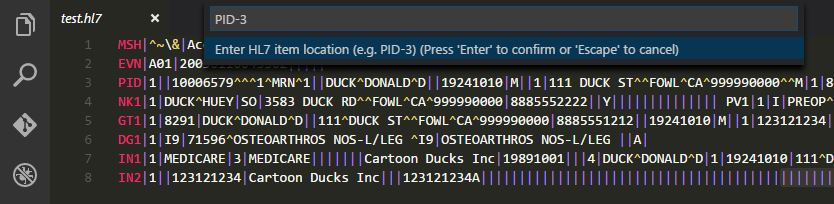
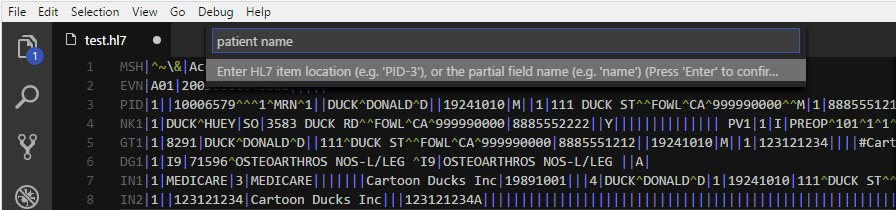
v1.3.6 release

diff --git a/CHANGELOG.md b/CHANGELOG.md
@@ -33,10 +33,13 @@ All notable changes to the "hl7tools" extension will be documented in this file.
 * Bugfix: Fixed duplication of MSH segment when splitting HL7 batch files.
 ## 1.3.2 - 2017-06-23
 * Added filename to output window name for 'Display Segment Fields' - less confusion when comparing segments from more than one file. 
-## 1.3.3
+## 1.3.3 - 2017-06-26
 * When using the 'Mask Identifiers' command, the masked message is now opened as a new document in the editor window, instead of being displayed in the output window.  
-## 1.3.4
+## 1.3.4 - 2017-06-28
 * Fixed issue in 'Highlight Field' command where searches to highlight an item based on location (not name) failed if the location entered was in lowercase.
 * Fixed issued in 'Highlight Field' command where highlighting fields in the MSH segment were shifted 1 field to the right.
-## 1.3.5 
+## 1.3.5 2017-06-30
 * The 'Highlight Field' now persists the highlighting for all HL7 files open in the current editor session. Previously switching to another tab would clear the highlighting. The command 'Clear Highlighted Fields' has been added to manually clear the highlighted fields.
+## 1.3.6 2017-06-31
+* Custom segments now displayed by the 'Display Segment Fields' command.
+* Fixed issue where fields not defined in the schema where not displayed by the 'Display Segment Fields' command.

diff --git a/README.md b/README.md
@@ -81,7 +81,7 @@ You can submit your issues and feature requests on the GitHub [issues page](http
 ## Release Notes
 
 ### Known issues
-* Display Segment fields function fails on custom 'Z' segments
+No known issues. Raise issues via https://github.com/RobHolme/vscode-hl7tools/issues
 
 ### 1.0.0
 * Initial release.
@@ -134,6 +134,10 @@ You can submit your issues and feature requests on the GitHub [issues page](http
 
 ### 1.3.5
 * The 'Highlight Field' now persists the highlighting for all HL7 files open in the current editor session. Previously switching to another tab would clear the highlighting. The command 'Clear Highlighted Fields' has been added to manually clear the highlighted fields.
+
+### 1.3.6
+* Custom segments now displayed by the 'Display Segment Fields' command.
+* Fixed issue where fields not defined in the schema where not displayed by the 'Display Segment Fields' command.
 
 ## Credits
 * The HL7 syntax highlighting was sourced from https://github.com/craighurley/sublime-hl7-syntax
